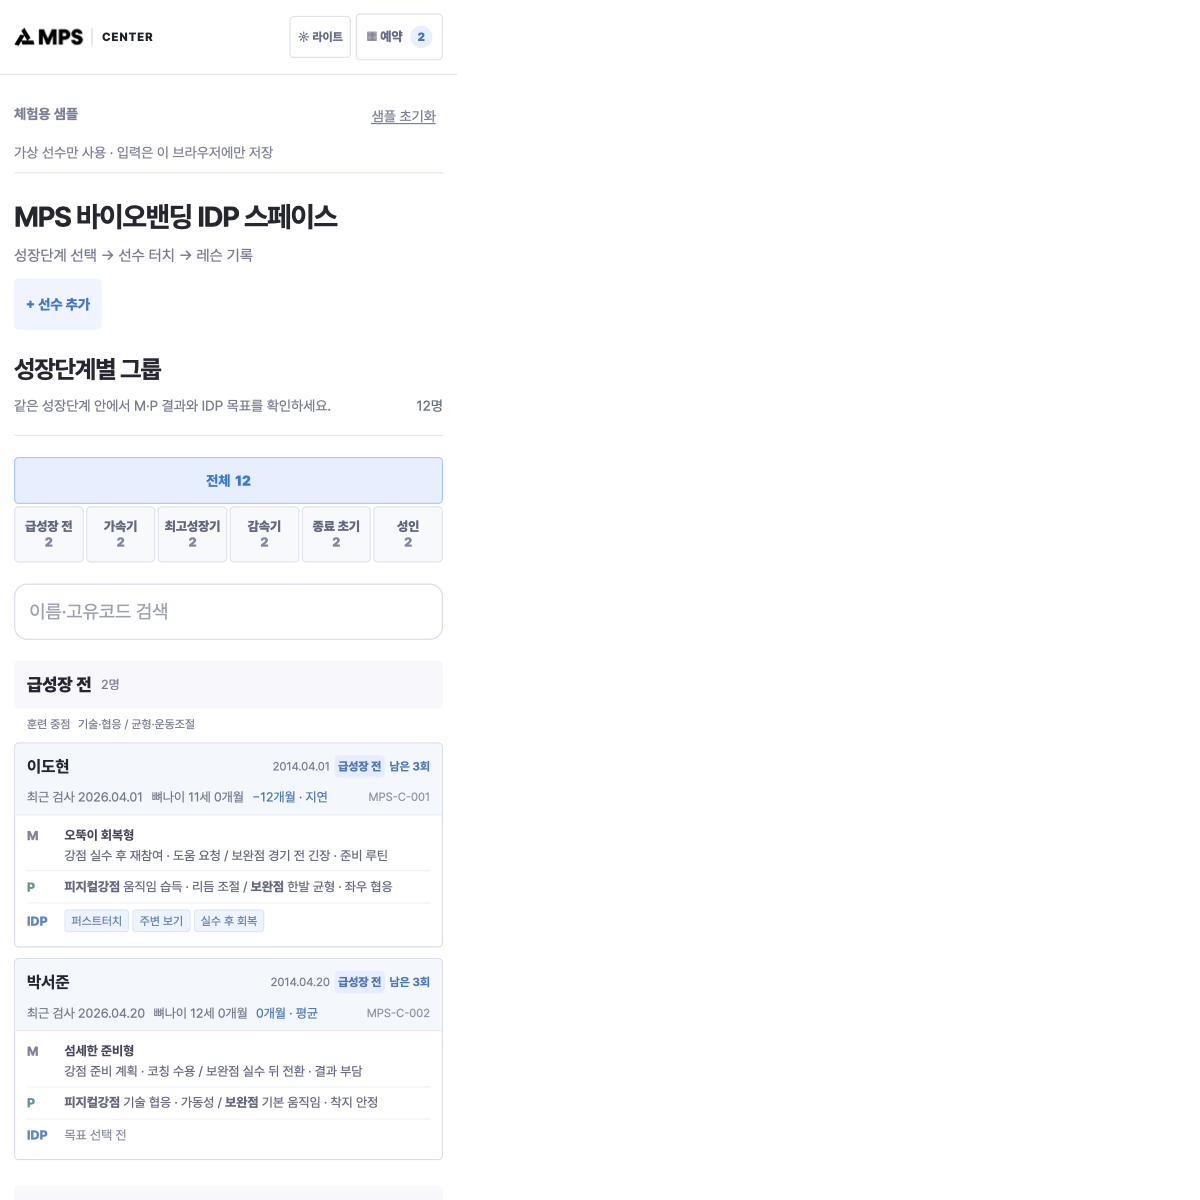
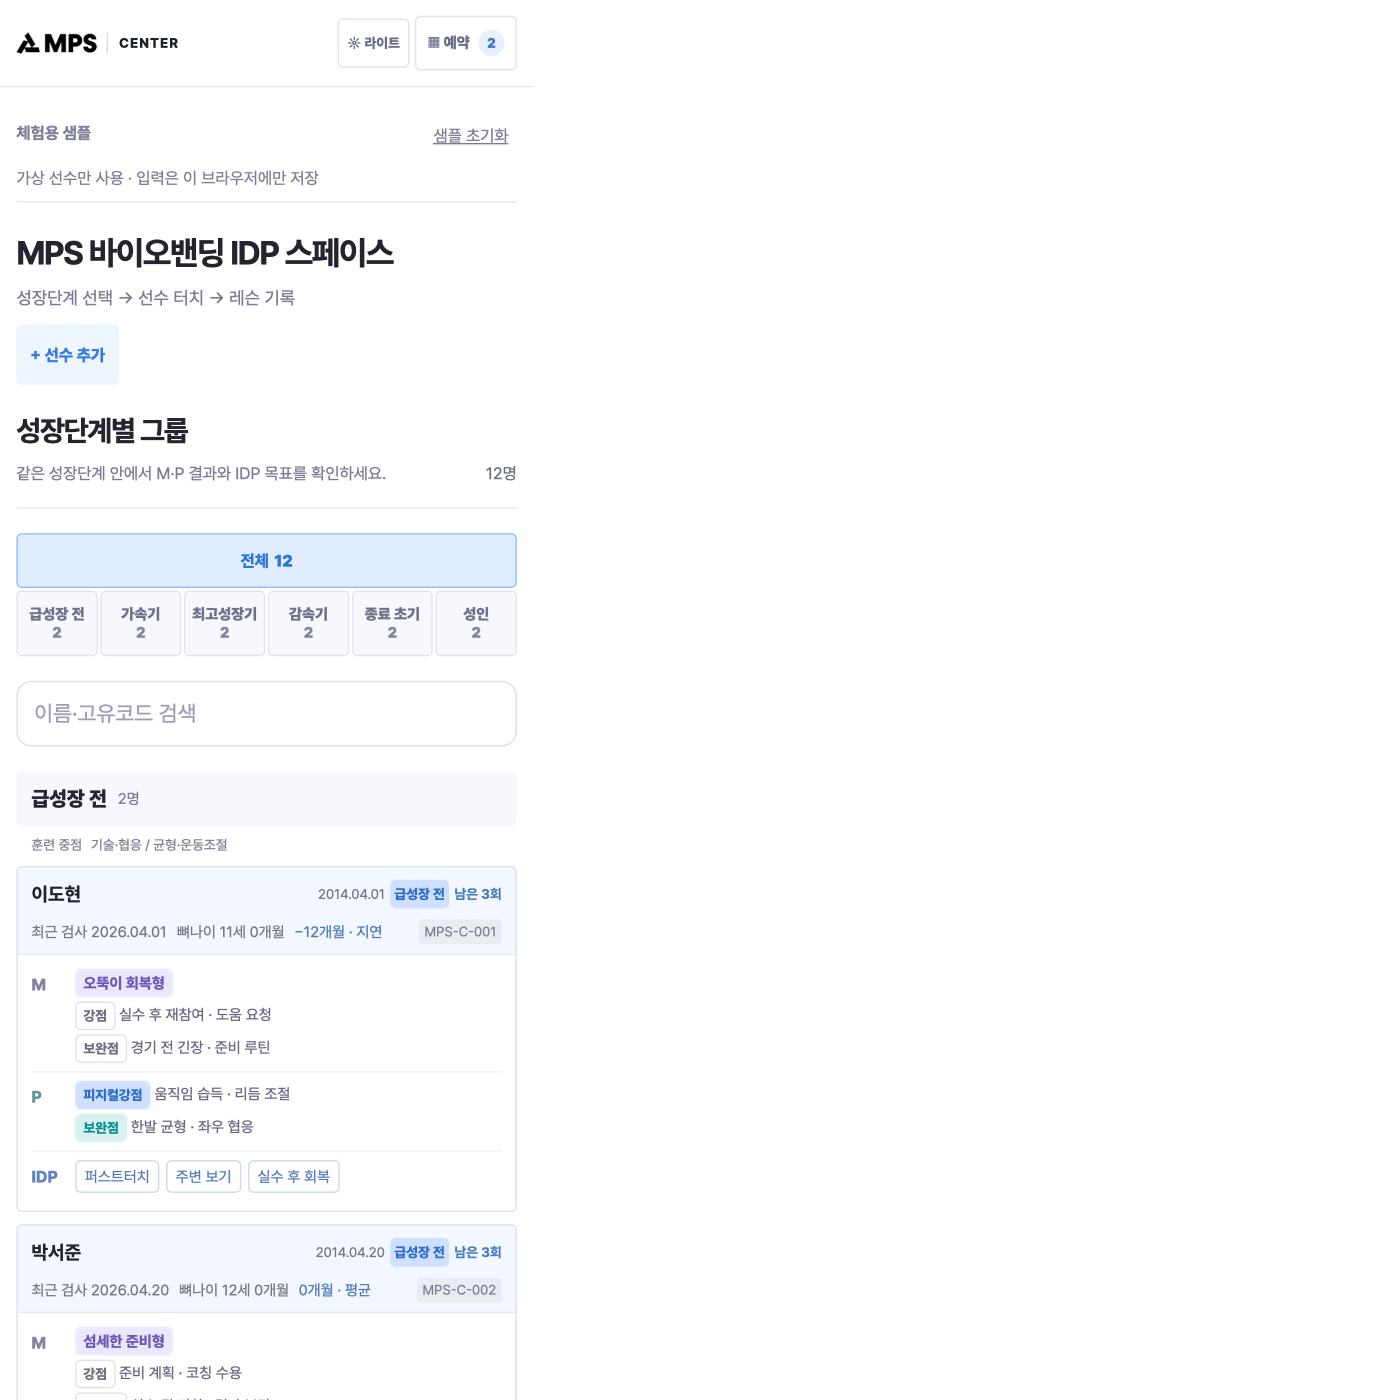
Match reference filled pastel tags and blue action controls

diff --git a/style.css b/style.css
@@ -833,3 +833,41 @@ button,input,select,textarea{min-width:0}
 :root[data-theme="light"] .calendar-side>h3{padding-bottom:10px;border-bottom:1px solid #e3e1ed}
 :root[data-theme="light"] .booking-row{border-color:#dde2ee;background:#fff}
 @media(max-width:700px){:root[data-theme="light"] .stage-players>.player-card-button,:root[data-theme="light"] .stage-players>.player-card-button.selected{padding:0}:root[data-theme="light"] #player-detail-dialog .detail-head{margin:-14px -12px 0;padding:16px 12px}:root[data-theme="light"] .player-card-identity{padding:9px 10px 7px}:root[data-theme="light"] .player-card-results{padding:4px 10px 7px}:root[data-theme="light"] .compact-top strong{font-size:14px}}
+/* Reference fidelity: readable charcoal records and distinct filled/outlined tags. */
+.reference-tag{display:inline-flex;align-items:center;justify-content:center;width:fit-content;min-height:23px;padding:3px 6px;border:1px solid #596177;border-radius:4px;font-size:11px;line-height:1.2;font-weight:750;vertical-align:middle}
+.card-observation{display:block;line-height:1.6}
+.result-copy .reference-tag{display:inline-flex}
+.result-copy{gap:4px}
+:root[data-theme="light"]{--ui-blue:#4d8fff;--muted:#85879e;--line:#d9dbea}
+:root[data-theme="light"] .heading h1,:root[data-theme="light"] .panel h2,:root[data-theme="light"] .detail-head h2,:root[data-theme="light"] .section-label{color:#23242e}
+:root[data-theme="light"] .player-card-identity{background:#f3f7ff}
+:root[data-theme="light"] .compact-top strong{color:#22242d;font-size:16px}
+:root[data-theme="light"] .compact-dob{color:#747783}
+:root[data-theme="light"] .compact-stage{background:#cedfff;color:#296ccc;border-radius:4px;padding:3px 5px;font-weight:750}
+:root[data-theme="light"] .compact-remaining{color:#467cbe}
+:root[data-theme="light"] .compact-measure{color:#737887}
+:root[data-theme="light"] .compact-measure small{background:#e9edf2;color:#7a8090;border-radius:3px;padding:2px 4px}
+:root[data-theme="light"] .compact-result{color:#41434f;font-size:12px;line-height:1.5;padding:7px 0}
+:root[data-theme="light"] .compact-result .result-key{font-size:12px;color:#8688a1;line-height:23px}
+:root[data-theme="light"] .tag-blue{background:#cedfff;border-color:#cedfff;color:#296ccc}
+:root[data-theme="light"] .tag-mint{background:#d8f0ef;border-color:#d8f0ef;color:#078f92}
+:root[data-theme="light"] .tag-lavender,:root[data-theme="light"] .result-copy>strong.tag-lavender{background:#ebe7ff;border-color:#ebe7ff;color:#6e58b6;font-size:12px}
+:root[data-theme="light"] .tag-outline{background:#fff;border-color:#e0e1e8;color:#6b6e80}
+:root[data-theme="light"] .idp-card-tag{min-height:24px;display:inline-flex;align-items:center;background:#fff;border:1px solid #cdd9ed;color:#527bbb;border-radius:4px;padding:3px 6px;font-size:11px}
+:root[data-theme="light"] .idp-card-tags{gap:5px}
+:root[data-theme="light"] .stage-chip{background:#f7f8fd;border-color:#dfe3ef;color:#6e7189}
+:root[data-theme="light"] .stage-chip.active{background:#e0ecff;border-color:#8eb8ff;color:#2d75d8}
+:root[data-theme="light"] .stage-chip.active b{color:#2d75d8}
+:root[data-theme="light"] .button.primary,:root[data-theme="light"] .focus-optional summary .focus-select-action{background:#4d8fff;border-color:#4d8fff;color:#fff;-webkit-text-fill-color:#fff}
+:root[data-theme="light"] .button.soft{background:#edf5ff;color:#397ce1}
+:root[data-theme="light"] .stage-group-head{background:#f7f8fd}
+:root[data-theme="light"] .player-tabs button{background:#f4f5fa;border-color:#e0e3ed;color:#85879e}
+:root[data-theme="light"] .player-tabs button.active{background:#eaf3ff;border-color:#a9cbff;color:#3478d7;-webkit-text-fill-color:#3478d7}
+:root[data-theme="light"] .growth-title strong{background:#cedfff;color:#296ccc}
+:root[data-theme="light"] .insight-strip-head strong{background:#ebe7ff;color:#6e58b6;padding:3px 6px;border-radius:4px}
+:root[data-theme="light"] .insight-strip.physical .insight-strip-head strong{background:#d8f0ef;color:#078f92}
+:root[data-theme="light"] .insight-inline p,:root[data-theme="light"] .insight-recs{color:#4e5363;font-size:12px;line-height:1.5}
+:root[data-theme="light"] #player-detail-dialog .detail-head{background:#f3f7ff}
+:root[data-theme="light"] #player-detail-dialog .detail-head .badge{background:#e9edf2;color:#666f7f}
+@media(max-width:700px){:root[data-theme="light"] .compact-top strong{font-size:14px}:root[data-theme="light"] .compact-stage{padding:3px;font-size:10px}:root[data-theme="light"] .compact-result{font-size:11px;padding:6px 0}:root[data-theme="light"] .tag-lavender,:root[data-theme="light"] .result-copy>strong.tag-lavender{font-size:11px}.reference-tag{font-size:10px;min-height:21px;padding:2px 5px}.result-copy{gap:3px}}
+@media(max-width:359px){:root[data-theme="light"] .compact-top strong{font-size:13px}:root[data-theme="light"] .compact-stage{font-size:9px;padding:2px 3px}}

diff --git a/app.js b/app.js
@@ -108,8 +108,8 @@ function card(p){
   return `<button class="player-card-button compact-player" data-id="${esc(p.id)}" type="button" aria-label="${esc(p.name)} 선수 정보 열기">
     <span class="player-card-identity"><span class="compact-top"><strong>${esc(p.name)}</strong><span class="compact-dob">${esc(displayDate(p.dob))}</span><span class="compact-stage">${esc(getStage(p))}</span><b class="compact-remaining">남은 ${Math.max(0,p.paid-p.used)}회</b></span>
     <span class="compact-measure"><span>최근 검사 ${esc(displayDate(report?.examDate))}</span><span>뼈나이 ${esc(report?yearsMonths(report.boneAgeMonths):'대기')}</span><span>${esc(signedDiff(p))}</span><small>${esc(p.code)}</small></span>
-    </span><span class="player-card-results"><span class="compact-result mental"><b class="result-key">M</b><span class="result-copy"><strong>${esc(mental?.type||'결과 대기')}</strong>${mental?`<span>강점 ${mental.strengths.map(esc).join(' · ')} / 보완점 ${mental.needs.map(esc).join(' · ')}</span>`:''}</span></span>
-    <span class="compact-result physical"><b class="result-key">P</b><span class="result-copy">${physical?`<span><strong>피지컬강점</strong> ${physical.strengths.length?physical.strengths.map(esc).join(' · '):'결과 대기'} / <strong>보완점</strong> ${physical.needs.map(esc).join(' · ')||'결과 대기'}</span>`:'결과 대기'}</span></span>
+    </span><span class="player-card-results"><span class="compact-result mental"><b class="result-key">M</b><span class="result-copy"><strong class="reference-tag tag-lavender">${esc(mental?.type||'결과 대기')}</strong>${mental?`<span class="card-observation"><span class="reference-tag tag-outline">강점</span> ${mental.strengths.map(esc).join(' · ')}</span><span class="card-observation"><span class="reference-tag tag-outline">보완점</span> ${mental.needs.map(esc).join(' · ')}</span>`:''}</span></span>
+    <span class="compact-result physical"><b class="result-key">P</b><span class="result-copy">${physical?`<span class="card-observation"><strong class="reference-tag tag-blue">피지컬강점</strong> ${physical.strengths.length?physical.strengths.map(esc).join(' · '):'결과 대기'}</span><span class="card-observation"><strong class="reference-tag tag-mint">보완점</strong> ${physical.needs.map(esc).join(' · ')||'결과 대기'}</span>`:'결과 대기'}</span></span>
     <span class="compact-result idp"><b class="result-key">IDP</b><span class="idp-card-tags">${p.idp?.priorities?.length?p.idp.priorities.slice(0,3).map(item=>`<span class="idp-card-tag">${esc(item.label)}</span>`).join(''):'<span class="idp-unset">목표 선택 전</span>'}</span></span>
     </span>
   </button>`
